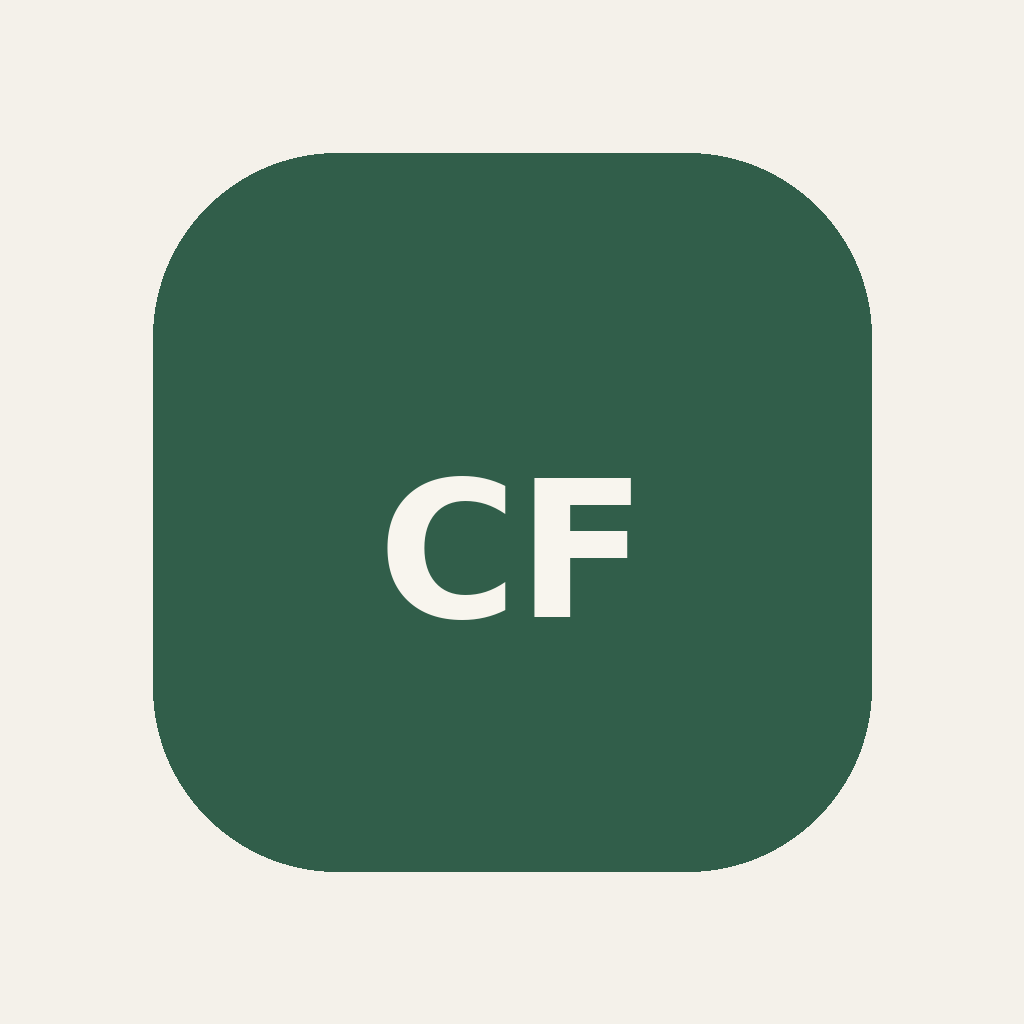
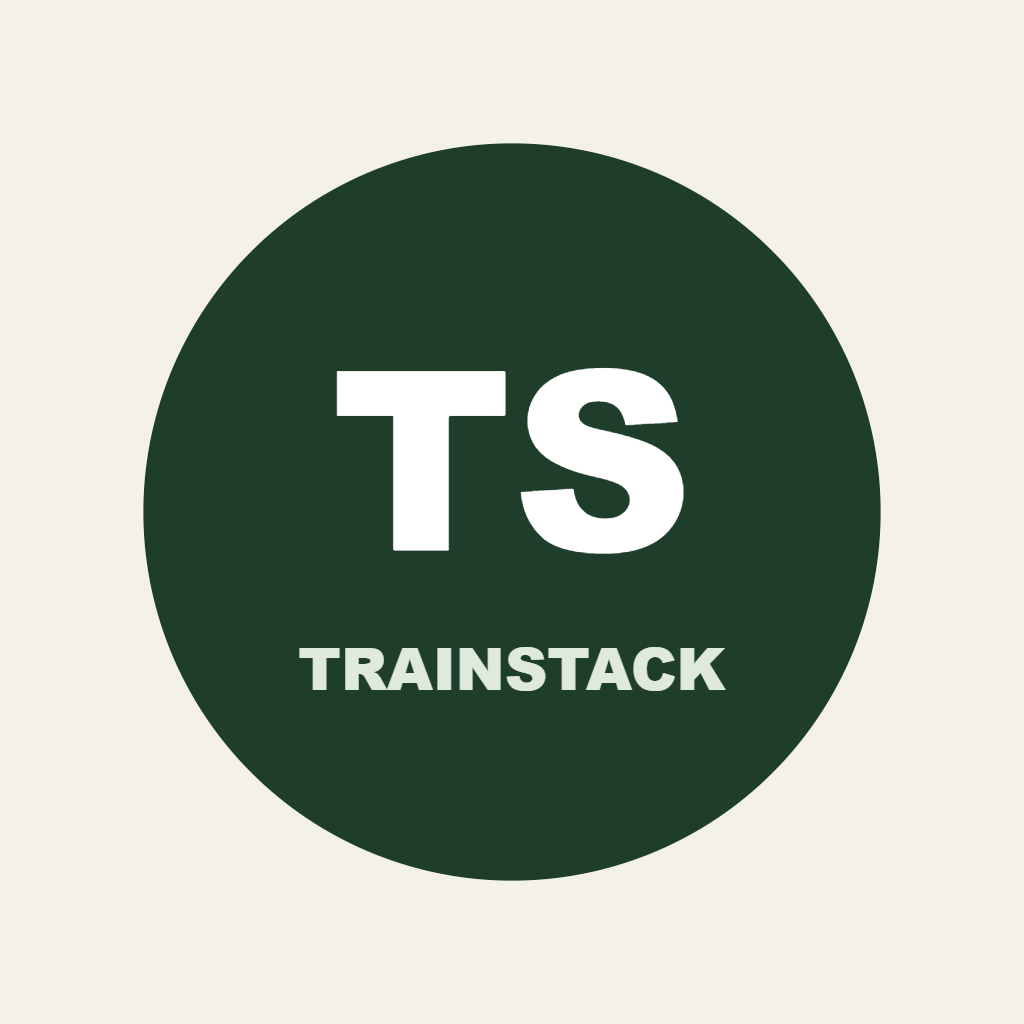
Rename app to TrainStack

diff --git a/App.js b/App.js
@@ -22,8 +22,8 @@ import StatsScreen from "./src/screens/StatsScreen";
 import MoreScreen from "./src/screens/MoreScreen";
 import { colors, spacing } from "./src/styles/theme";
 
-const PLANNED_WORKOUTS_KEY = "command-fit-planned-workouts";
-const COMPLETED_WORKOUTS_KEY = "command-fit-completed-workouts";
+const PLANNED_WORKOUTS_KEY = "trainstack-planned-workouts";
+const COMPLETED_WORKOUTS_KEY = "trainstack-completed-workouts";
 
 function AppContent() {
   const [activeTab, setActiveTab] = useState("today");
@@ -230,7 +230,7 @@ function AppContent() {
         <StatusBar barStyle="dark-content" backgroundColor={colors.background} />
 
         <View style={styles.loadingScreen}>
-          <Text style={styles.loadingTitle}>Command Fit</Text>
+          <Text style={styles.loadingTitle}>TrainStack</Text>
           <Text style={styles.loadingText}>Loading saved workouts...</Text>
         </View>
       </SafeAreaView>

diff --git a/README.md b/README.md
@@ -1,63 +1,19 @@
-# Command Fit Mobile
+# TrainStack
 
-A phone-first workout and personal command centre app.
+TrainStack is a mobile workout planning and training app built with Expo and React Native.
 
-The app starts as a workout logger with rest timers, session notes, and future modules built into the structure. It is made with Expo and React Native so it can run on Android, iOS, and web from one codebase.
+## Current features
 
-## Run On Your Phone
+- Workout planner
+- Workout suggestions
+- Today screen
+- Train screen
+- Exercise checklist
+- Finish workout flow
+- Stats and workout history
+- Edit/delete workout menus
+- Phone storage with AsyncStorage
 
-Install dependencies:
+## Version
 
-```bash
-npm install
-```
-
-Start the app:
-
-```bash
-npm run start
-```
-
-Then install **Expo Go** on your phone and scan the QR code from the terminal/browser.
-
-## Build An Android APK
-
-Install EAS CLI:
-
-```bash
-npm install -g eas-cli
-```
-
-Log in:
-
-```bash
-eas login
-```
-
-Build an APK:
-
-```bash
-eas build -p android --profile preview
-```
-
-The `preview` profile in `eas.json` is configured to produce an APK for direct Android installation.
-
-## Push To GitHub
-
-```bash
-git init
-git add .
-git commit -m "Initial Command Fit mobile app"
-git branch -M main
-git remote add origin YOUR_GITHUB_REPO_URL
-git push -u origin main
-```
-
-## Next Features
-
-- Save workouts locally
-- Exercise templates
-- Better rest timer flows
-- Weekly progress dashboard
-- AI coach module
-- Website/release monitoring module
+v0.1.0 test APK
